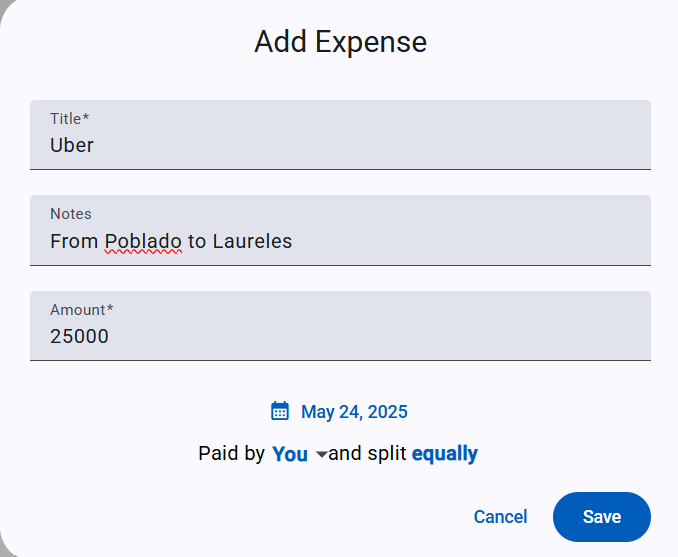
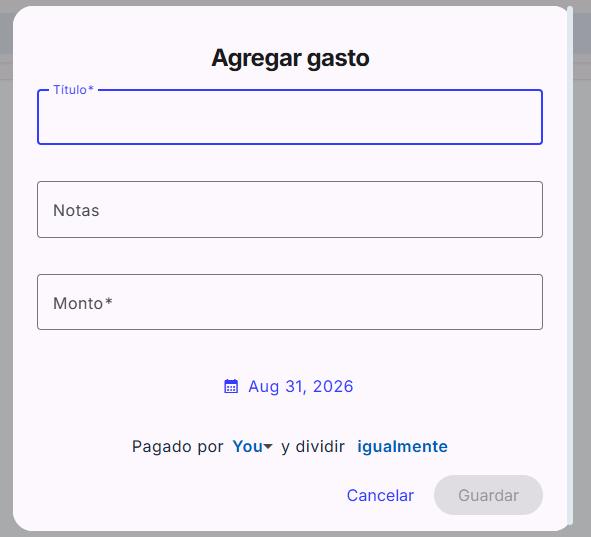
Update README

diff --git a/README.md b/README.md
@@ -243,6 +243,9 @@ cd /opt/splitit
 
 ## Screenshots
 
+### Login view
+![Login view](docs/images/login.png)
+
 ### Add Group
 ![Add group](docs/images/add-group.png)
 
